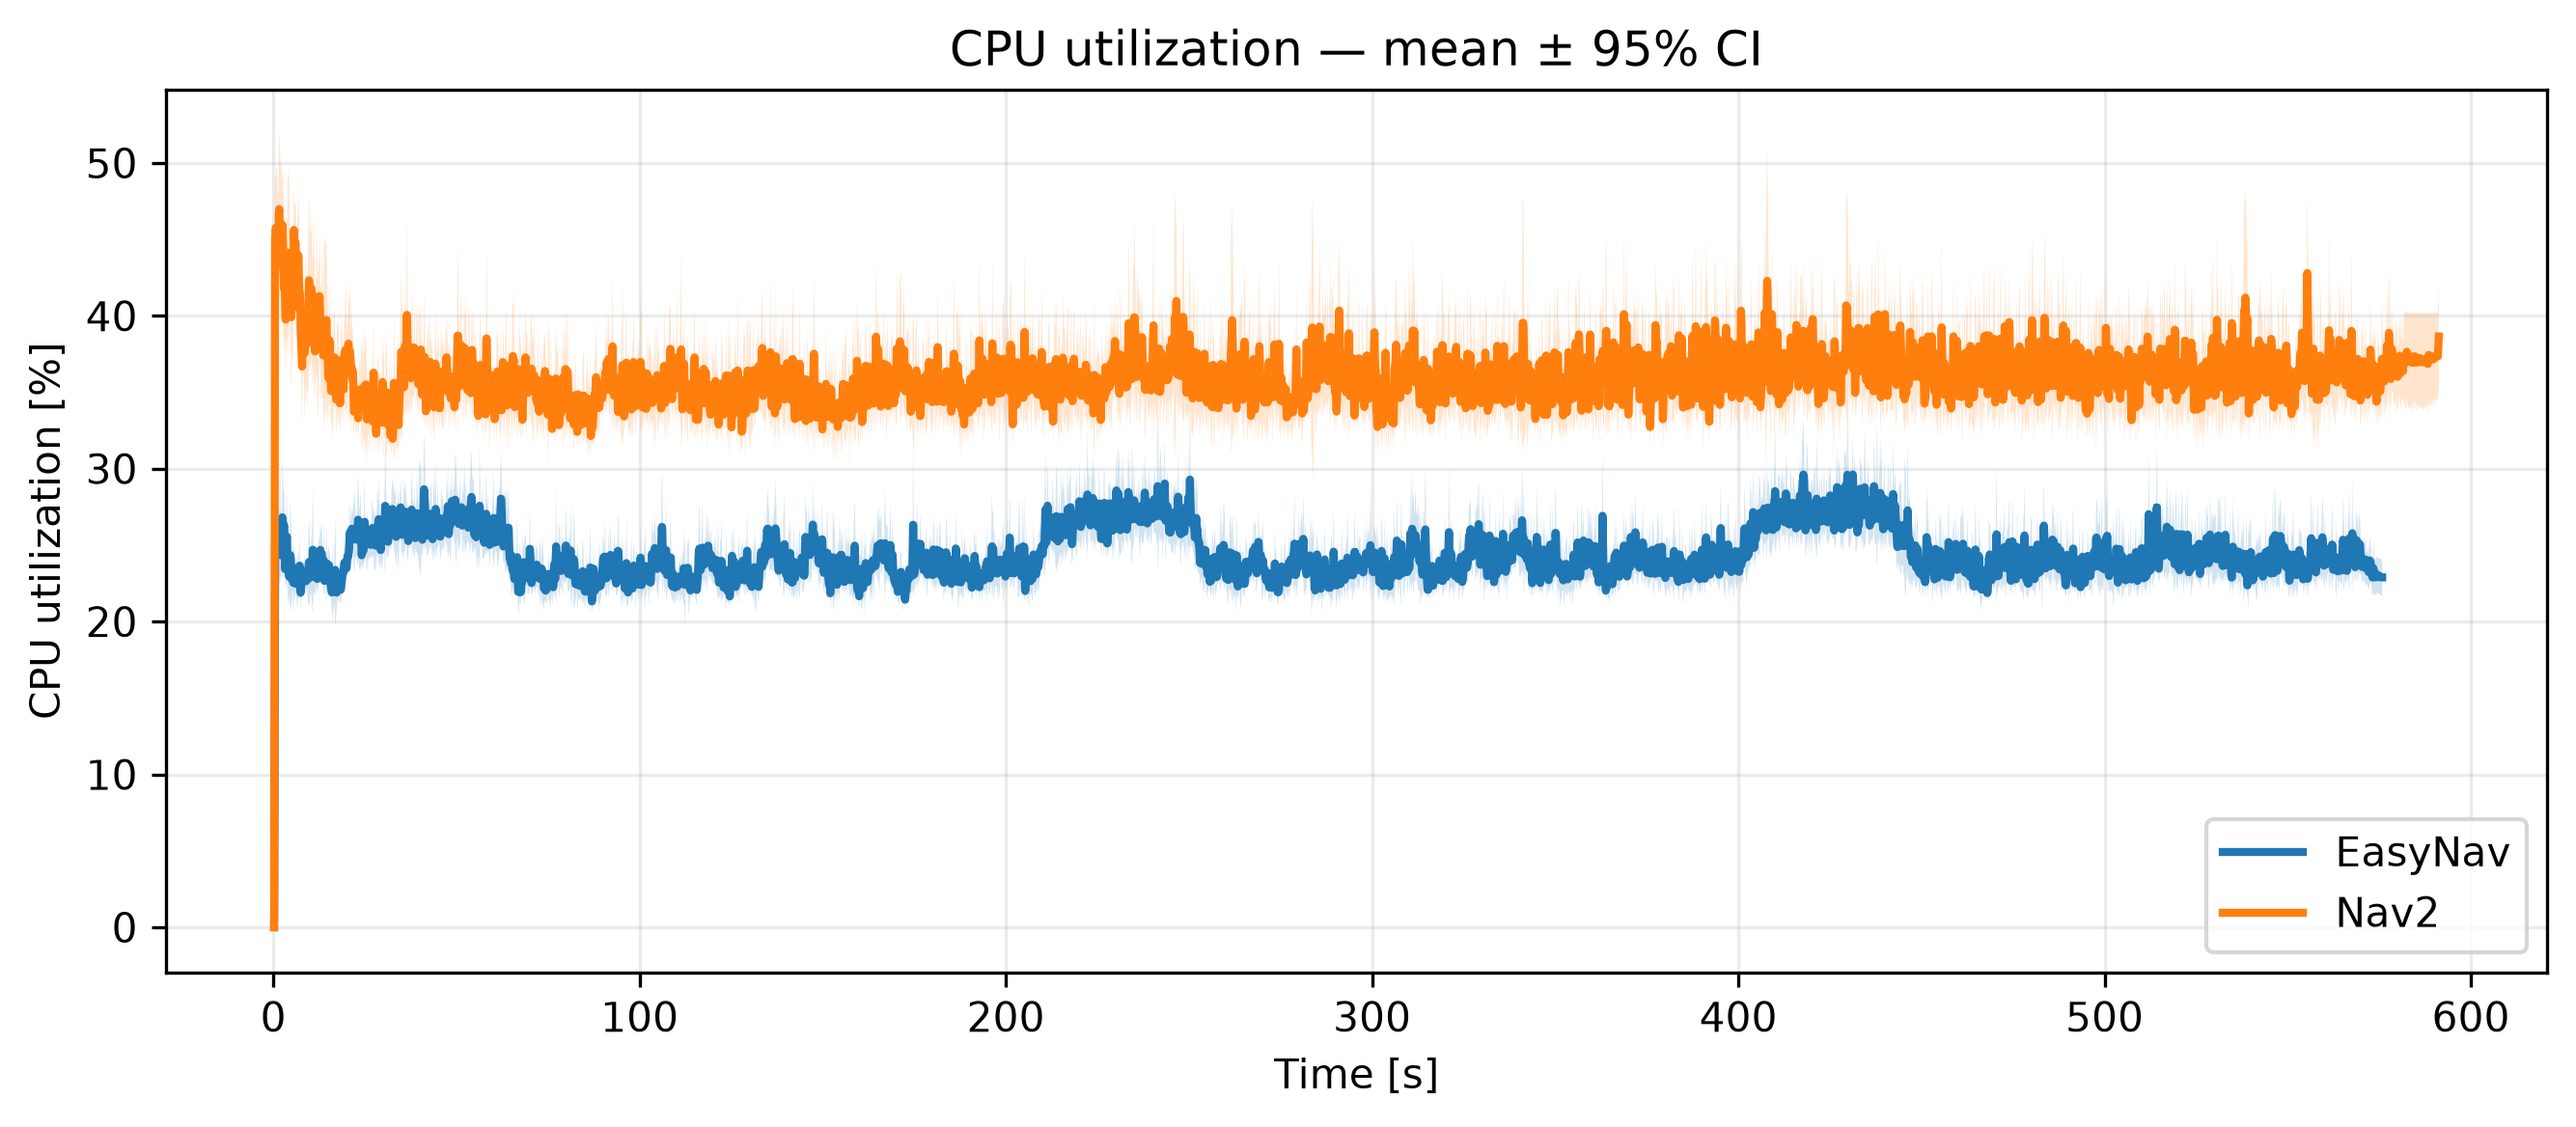
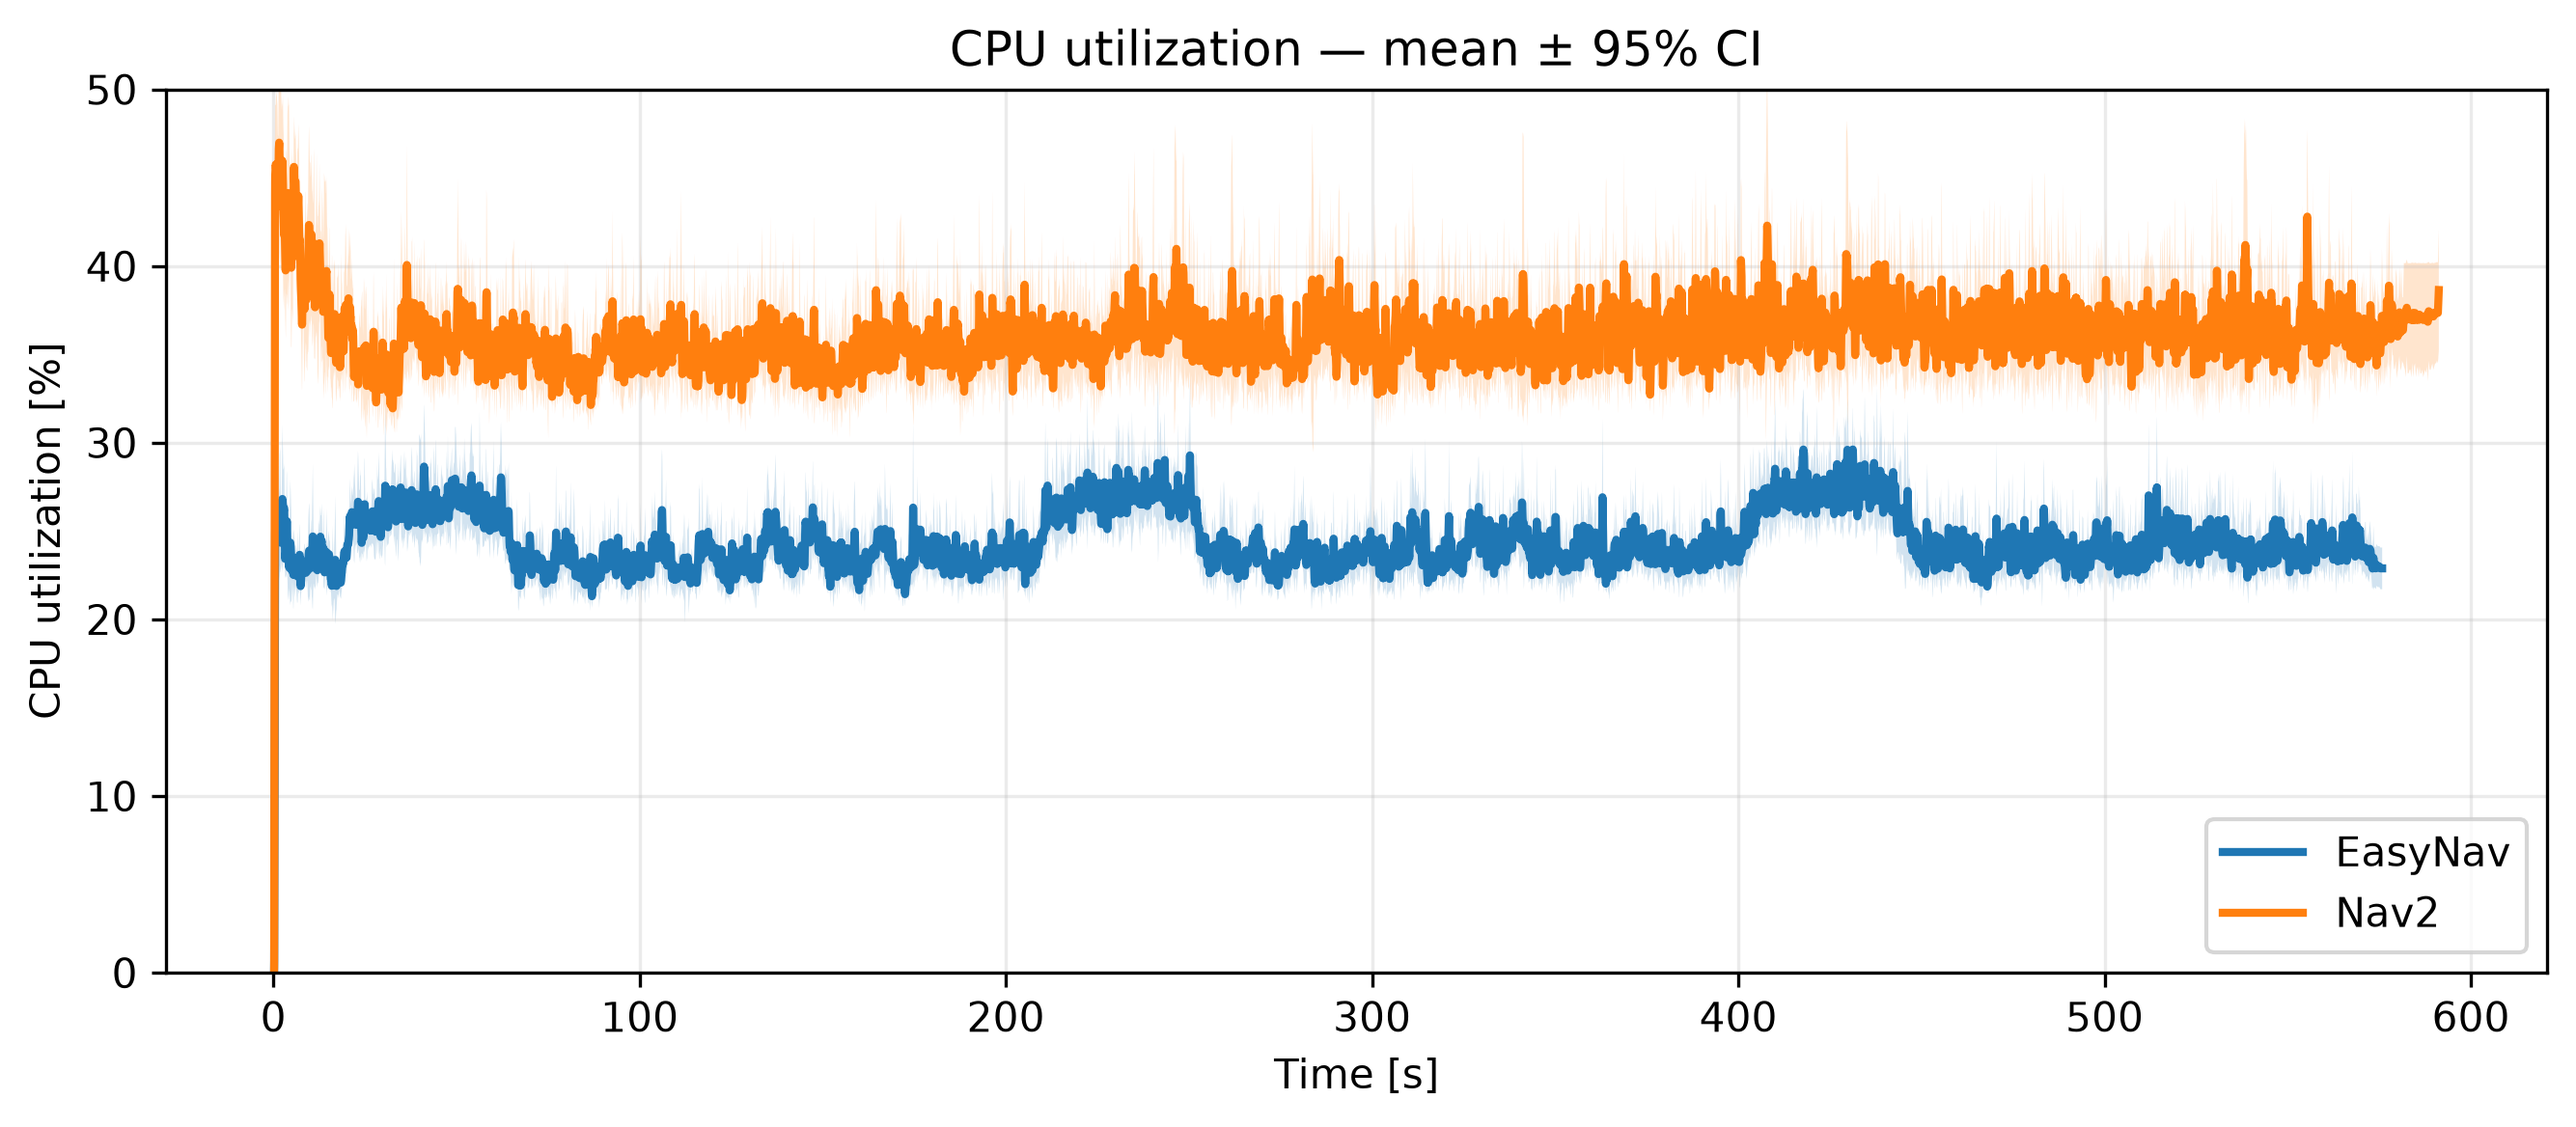
Fix visualization

diff --git a/scripts/analyze_experiment1.py b/scripts/analyze_experiment1.py
@@ -10,6 +10,7 @@ import numpy as np
 import pandas as pd
 from scipy import stats
 from statsmodels.stats.multitest import multipletests
+from matplotlib.lines import Line2D
 
 
 RESULTS_DIR = Path("results/cycle")
@@ -255,15 +256,22 @@ def plot_distribution(data, metric):
             "markeredgecolor": "black",
             "markersize": 5,
         },
+        medianprops={
+            "color": "gray",
+            "linewidth": 1.5,
+        },
     )
 
     rng = np.random.default_rng(42)
 
-    for i, values in enumerate(groups, start=1):
+    for i, (framework, values) in enumerate(
+        zip(FRAMEWORKS, groups), start=1
+    ):
         jitter = rng.uniform(-0.10, 0.10, len(values))
         ax.scatter(
             np.full(len(values), i) + jitter,
             values,
+            color=f"C{i - 1}",
             alpha=0.70,
             edgecolors="white",
             linewidths=0.5,
@@ -271,7 +279,36 @@ def plot_distribution(data, metric):
         )
 
     ax.set_ylabel(f"{label} [{unit}]")
-    ax.set_title(f"{label} — run-level observations")
+    # ax.set_title(f"{label} — indoor run-level observations")
+    if metric in {"cpu", "memory"}:
+        if metric == "cpu":
+            ax.set_ylim(0, 50)
+        else:
+            ax.set_ylim(100, 200)
+        ax.legend(
+            handles=[
+                Line2D(
+                    [0], [0], marker="o", color="w", label="EasyNav run",
+                    markerfacecolor="C0", markeredgecolor="white",
+                    markersize=7,
+                ),
+                Line2D(
+                    [0], [0], marker="o", color="w", label="Nav2 run",
+                    markerfacecolor="C1", markeredgecolor="white",
+                    markersize=7,
+                ),
+                Line2D(
+                    [0], [0], color="gray", label="Median",
+                    linewidth=1.5,
+                ),
+                Line2D(
+                    [0], [0], marker="D", color="w", label="Mean",
+                    markerfacecolor="black", markeredgecolor="black",
+                    markersize=6,
+                ),
+            ],
+            loc="upper left",
+        )
     ax.grid(axis="y", alpha=0.25)
 
     fig.tight_layout()
@@ -308,6 +345,8 @@ def plot_profile(data, metric):
     ax.set_xlabel("Time [s]")
     ax.set_ylabel(f"{label} [{unit}]")
     ax.set_title(f"{label} — mean ± 95% CI")
+    if metric == "cpu":
+        ax.set_ylim(0, 50)
     ax.grid(alpha=0.25)
     ax.legend()
 
@@ -348,6 +387,8 @@ def plot_timeseries(data, metric):
     ax.set_xlabel("Time [s]")
     ax.set_ylabel(f"{label} [{unit}]")
     ax.set_title(f"{label} — mean ± 1 std across runs")
+    if metric == "cpu":
+        ax.set_ylim(0, 50)
     ax.grid(alpha=0.25)
     ax.legend()
 
